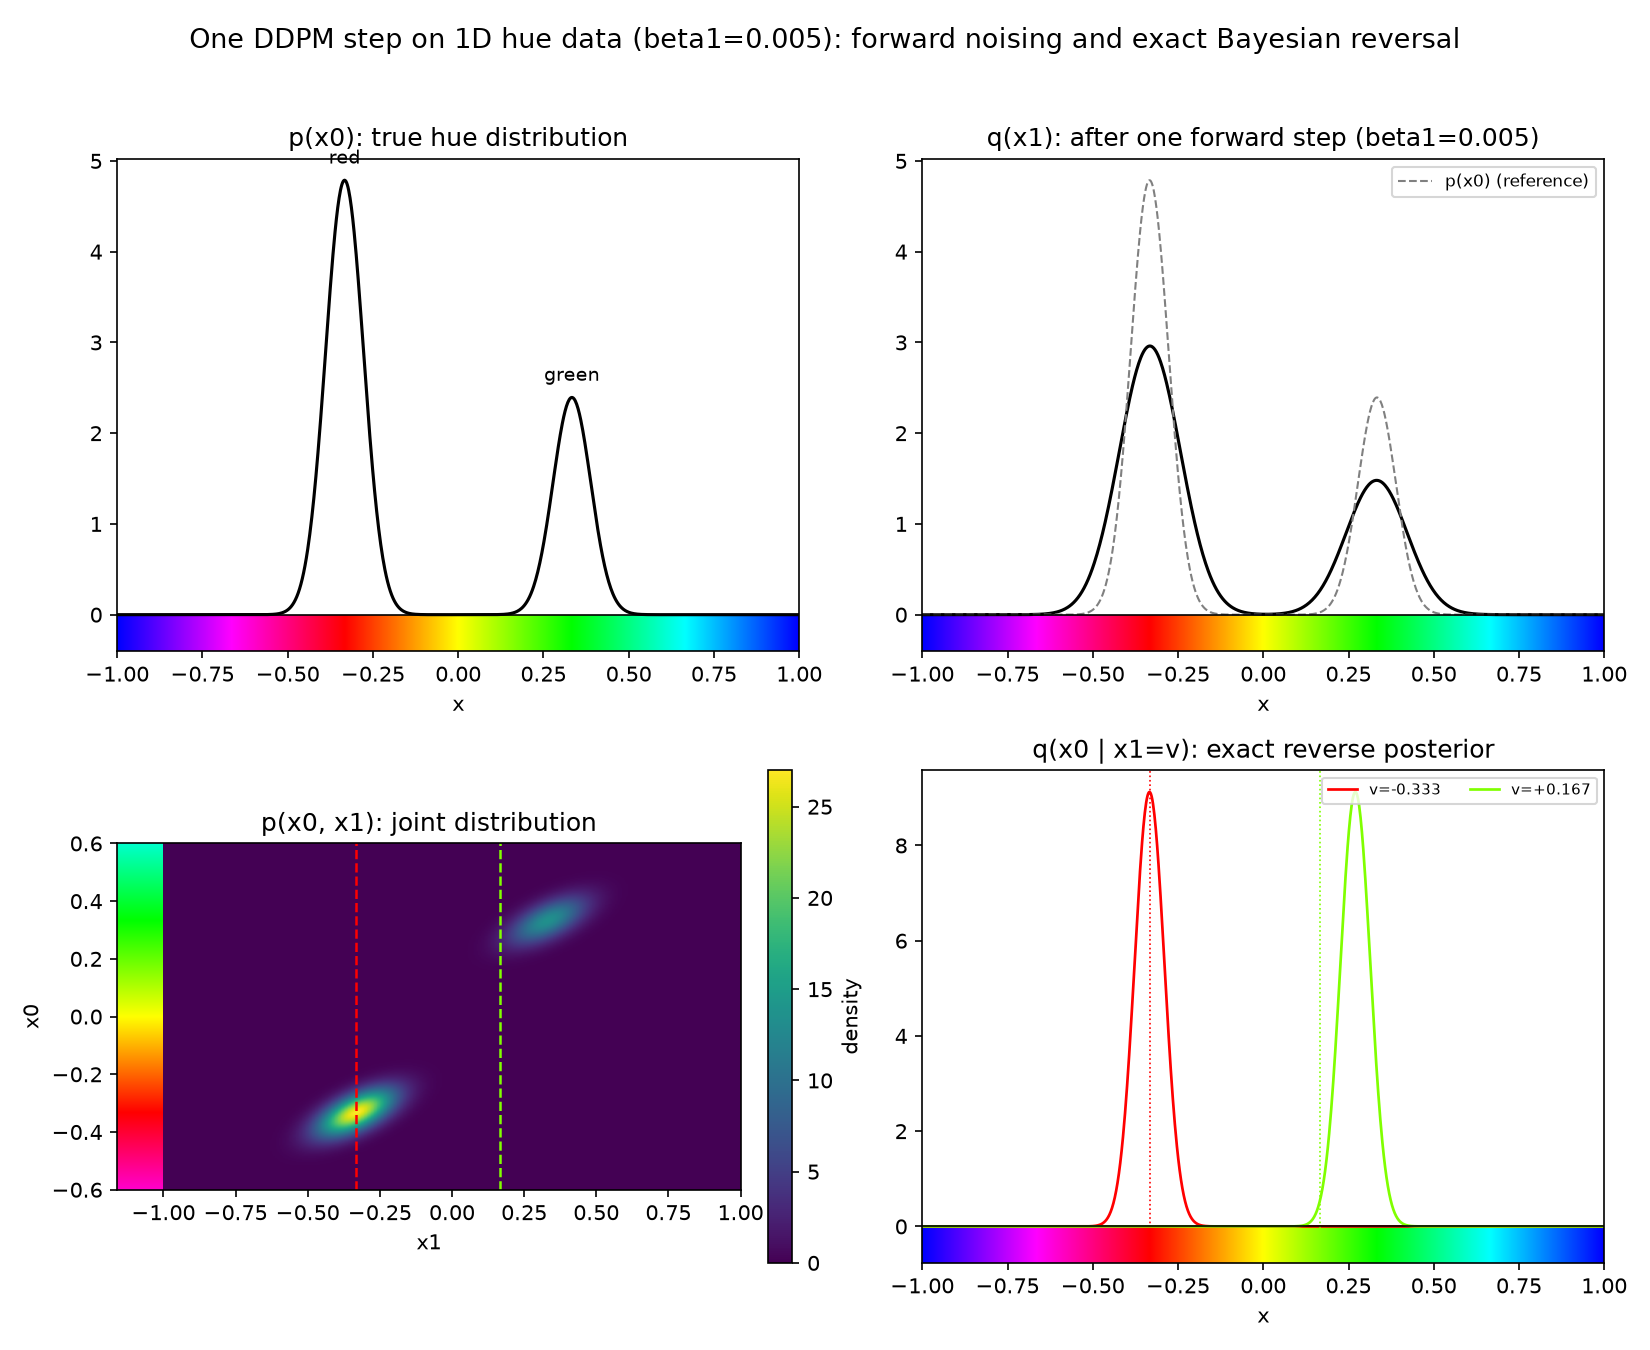
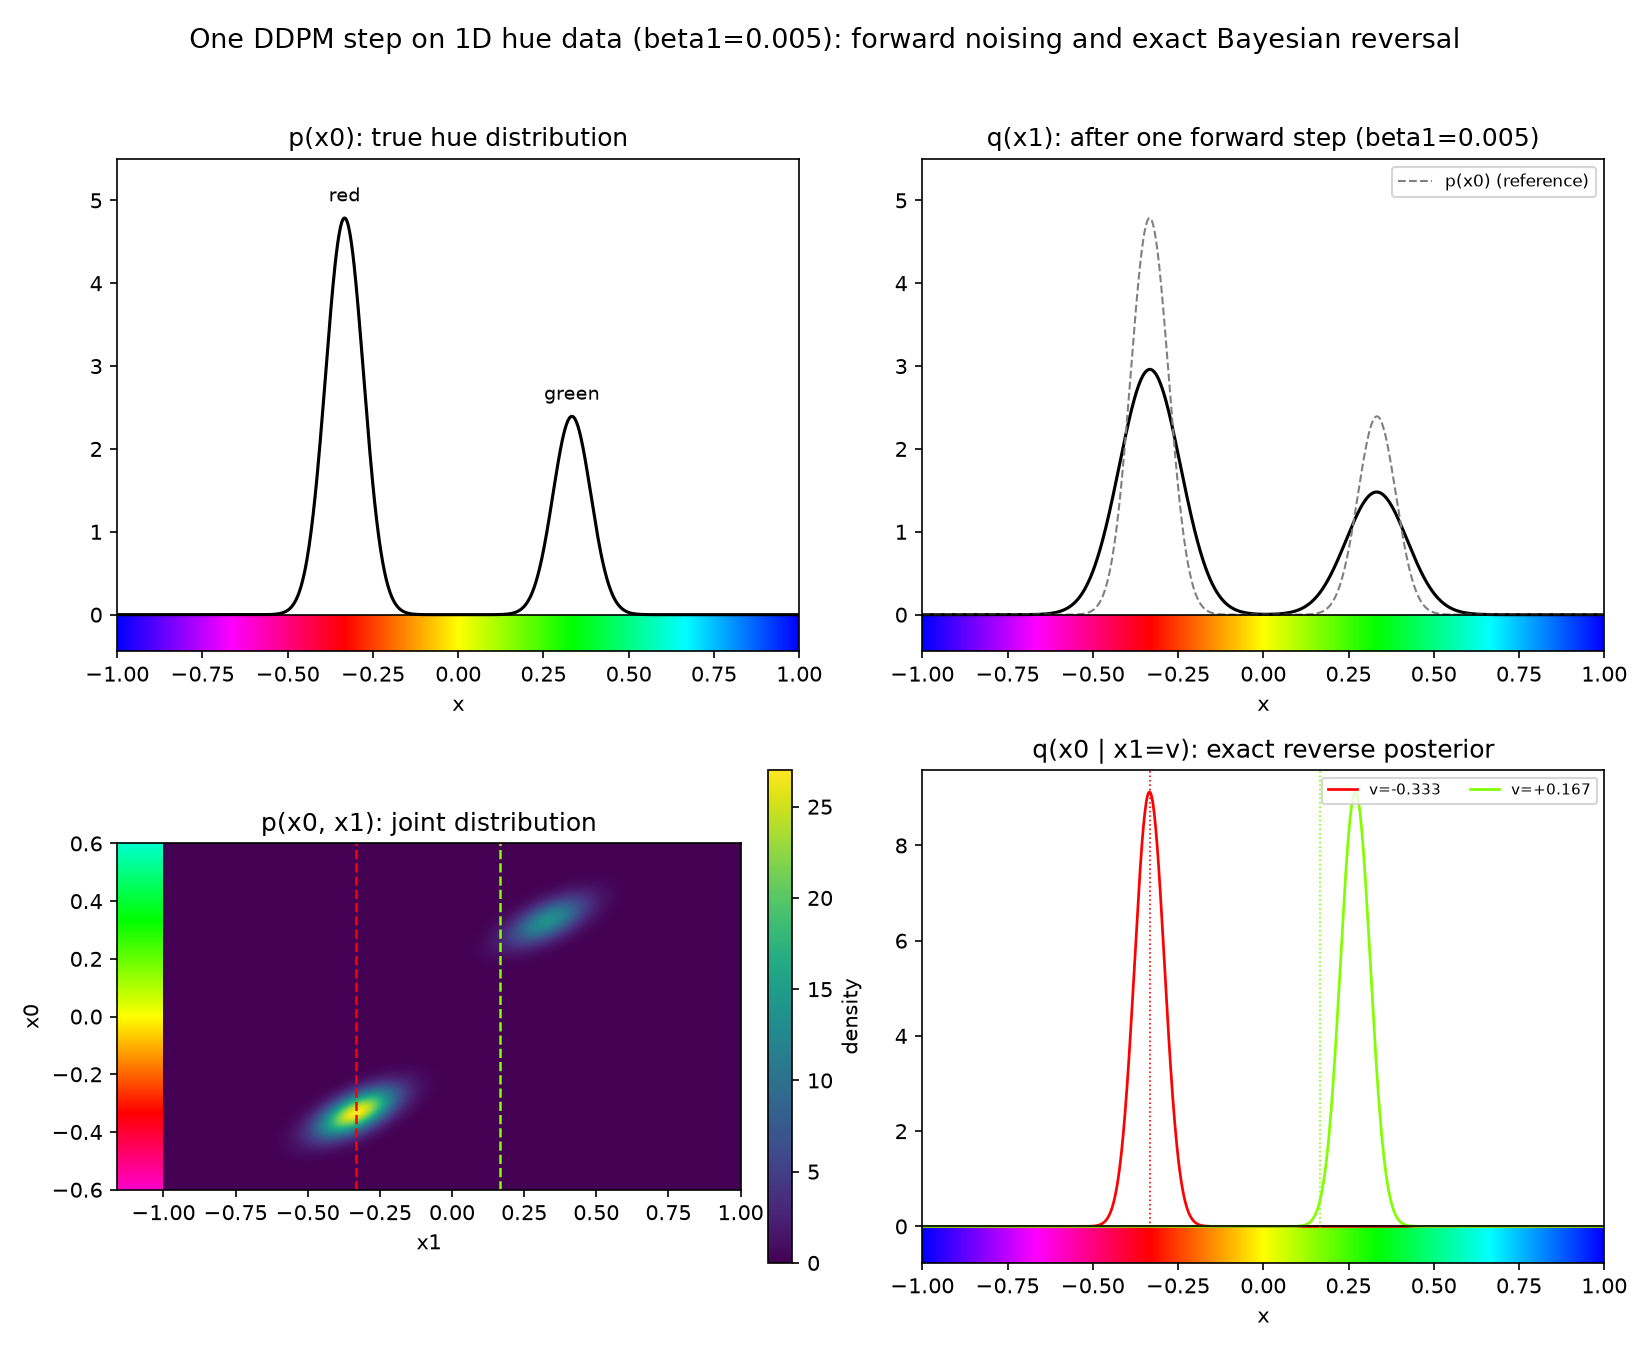
Add vertical headroom so mode labels aren't clipped at plot top
The "red"/"green" annotation text sat right at the y-axis limit
(1.05x peak density), so its top was cut off in original_distribution,
step0_forward_backward, and step0_x1_given_x0. Bumped to 1.15x.

diff --git a/step0_forward_backward.py b/step0_forward_backward.py
@@ -68,7 +68,7 @@ def main(beta1=BETA1, out_path=None):
     ax = axes[0, 0]
     p0 = gmm_pdf(x_grid)
     ax.plot(x_grid, p0, color="black", linewidth=1.5)
-    setup_axis(ax, "p(x0): true hue distribution", 1.05 * p0.max(), plot_range)
+    setup_axis(ax, "p(x0): true hue distribution", 1.15 * p0.max(), plot_range)
     for mu, name in zip(MEANS, NAMES):
         ax.annotate(name, (mu, gmm_pdf(np.array([mu]))[0]), textcoords="offset points",
                     xytext=(0, 8), ha="center", fontsize=9)
@@ -79,7 +79,7 @@ def main(beta1=BETA1, out_path=None):
     q1 = (w1 * normal_pdf(x_grid[..., None], m1, s1)).sum(-1)
     ax.plot(x_grid, q1, color="black", linewidth=1.5)
     ax.plot(x_grid, p0, color="gray", linewidth=1.0, linestyle="--", label="p(x0) (reference)")
-    setup_axis(ax, f"q(x1): after one forward step (beta1={beta1:g})", 1.05 * max(p0.max(), q1.max()), plot_range)
+    setup_axis(ax, f"q(x1): after one forward step (beta1={beta1:g})", 1.15 * max(p0.max(), q1.max()), plot_range)
     ax.legend(fontsize=8, loc="upper right")
 
     # --- compute exact reverse posterior curves (used by panels 3 and 4) ---

diff --git a/step0_x1_given_x0.py b/step0_x1_given_x0.py
@@ -64,7 +64,7 @@ def main(beta1=BETA1, out_path=None):
     ax = axes[0, 0]
     p0 = gmm_pdf(x_grid)
     ax.plot(x_grid, p0, color="black", linewidth=1.5)
-    setup_axis(ax, "p(x0): true hue distribution", 1.05 * p0.max(), plot_range)
+    setup_axis(ax, "p(x0): true hue distribution", 1.15 * p0.max(), plot_range)
     for mu, name in zip(MEANS, NAMES):
         ax.annotate(name, (mu, gmm_pdf(np.array([mu]))[0]), textcoords="offset points",
                     xytext=(0, 8), ha="center", fontsize=9)
@@ -75,7 +75,7 @@ def main(beta1=BETA1, out_path=None):
     q1 = (w1 * normal_pdf(x_grid[..., None], m1, s1)).sum(-1)
     ax.plot(x_grid, q1, color="black", linewidth=1.5)
     ax.plot(x_grid, p0, color="gray", linewidth=1.0, linestyle="--", label="p(x0) (reference)")
-    setup_axis(ax, f"q(x1): after one forward step (beta1={beta1:g})", 1.05 * max(p0.max(), q1.max()), plot_range)
+    setup_axis(ax, f"q(x1): after one forward step (beta1={beta1:g})", 1.15 * max(p0.max(), q1.max()), plot_range)
     ax.legend(fontsize=8, loc="upper right")
 
     # --- example x0 values used by panels 3 and 4 ---

diff --git a/original_distribution.py b/original_distribution.py
@@ -28,7 +28,7 @@ def main():
     p0 = gmm_pdf(X_GRID)
     ax.plot(X_GRID, p0, color="black", linewidth=1.5)
 
-    ymax = 1.05 * p0.max()
+    ymax = 1.15 * p0.max()
     ax.set_xlim(-1.0, 1.0)
     ax.set_ylim(-0.08 * ymax, ymax)
     hue_strip(ax, -0.08 * ymax, 0.0)
